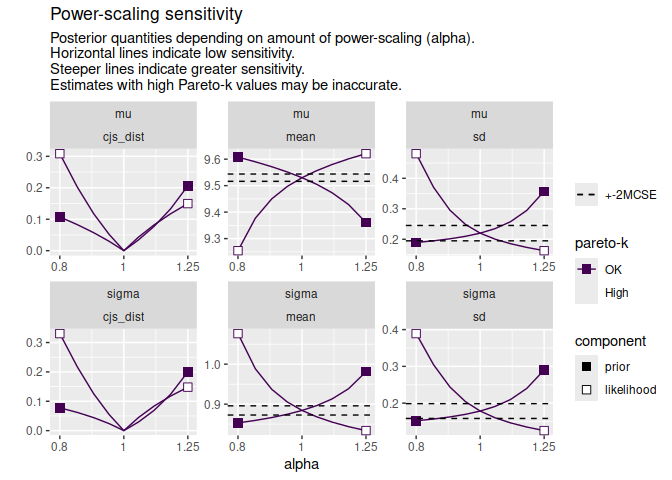
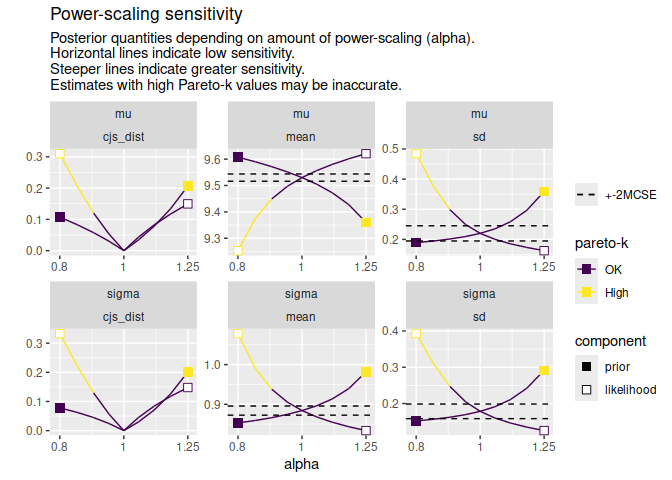
update readme

diff --git a/README.md b/README.md
@@ -99,34 +99,27 @@ Once fit, sensitivity can be checked as follows:
 
 ``` r
 powerscale_sensitivity(fit)
-#> Loading required namespace: testthat
 #> Sensitivity based on cjs_dist:
 #> # A tibble: 2 × 4
 #>   variable prior likelihood diagnosis          
 #>   <chr>    <dbl>      <dbl> <chr>              
-#> 1 mu       0.433      0.641 prior-data conflict
-#> 2 sigma    0.358      0.671 prior-data conflict
+#> 1 mu       0.436      0.649 prior-data conflict
+#> 2 sigma    0.364      0.683 prior-data conflict
 ```
 
-To visually inspect changes to the posterior, first create a
-power-scaling sequence.
+To visually inspect changes to the posterior, use one of the diagnostic
+plot functions. Estimates with high Pareto-k values may be inaccurate
+and are indicated.
 
 ``` r
-pss <- powerscale_sequence(fit)
-```
-
-Then use a plotting function. Estimates that may be inaccurate (Pareto-k
-values \> 0.5) are indicated.
-
-``` r
-powerscale_plot_ecdf(pss, variables = c("mu", "sigma"))
+powerscale_plot_ecdf(fit, variables = c("mu", "sigma"))
 ```
 
 <img src="man/figures/README-ecdf_plot-1.png" width="70%" height="70%" />
 
 ``` r
 powerscale_plot_quantities(
-  pss,
+  fit,
   quantities = c("mean", "sd"),
   div_measure = "cjs_dist",
   variables = c("mu", "sigma")
